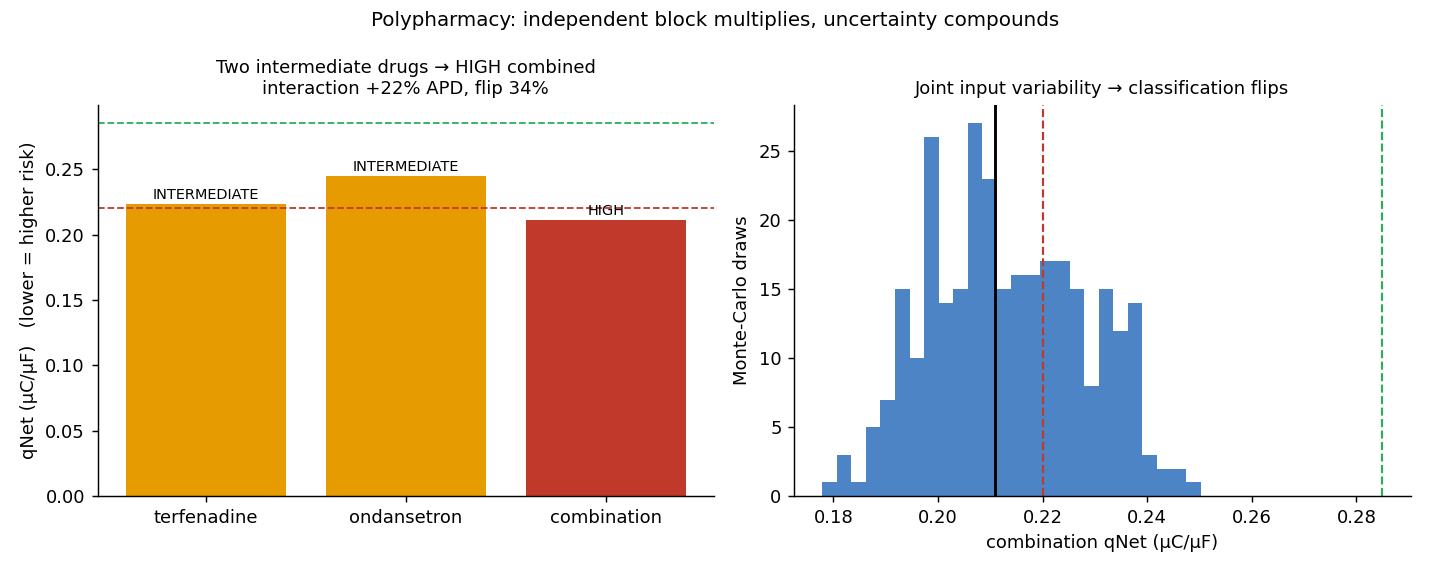
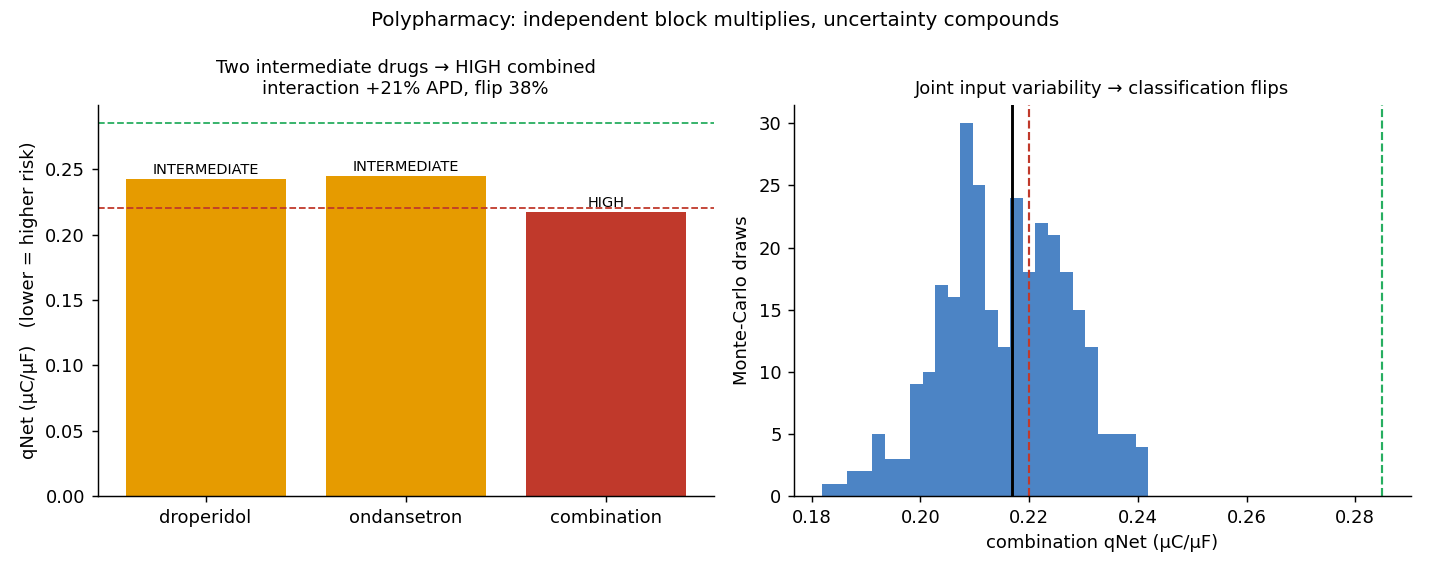
v0.8.1 — reconcile the two channels the v0.8 cross-check flagged (data fix)
The v0.8 machine cross-check flagged cisapride.ical and terfenadine.inal as
diverging >5x from the published CiPA value. Reviewed both against the RAW
Crumb-2016 dose-response (the cited source) and corrected them — the tool found
real errors and a human confirmed them against the primary source (records stay
'unverified'; this is a data fix, not a 'verified' promotion).

- cisapride.ical: raw Crumb data shows <=2.5% calcium block at the 125 nM top dose
  -> IC50 UNIDENTIFIABLE. Corrected 9258 -> 9258075.75 nM (Li-2017 extrapolated
  fit), max_block 62 -> 3; now Tier D w/ the unidentifiable failure mode. The prior
  9258 nM was a dropped-exponent unit error.
- terfenadine.inal: raw data shows ~15% late-Na block at the 800 nM top dose ->
  UNIDENTIFIABLE. Corrected 2000 -> 20056.02 nM, max_block 78 -> 15; now Tier D.
- Committed dataset now has ZERO cross-check divergences; test_crosscheck.py guards
  it stays clean and both channels are Tier-D unidentifiable.

Honest performance impact (reported, not hidden): correcting terfenadine's weaker
(faithful) protective late-Na block made the reduced kernel over-predict it to
'high' — an adjacent (one-category) error. qNet exact accuracy: training 10/12 ->
9/12, all-28 17/28 -> 16/28; within-one-category stays 100% (zero two-category
errors). Updated every perf number in README/CHANGELOG/spec.

Cascade: terfenadine is now 'high' alone, so it no longer illustrates 'two
[…]

diff --git a/tests/test_crosscheck.py b/tests/test_crosscheck.py
@@ -108,17 +108,26 @@ def test_cross_check_never_implies_verified(ds):
     assert "not human `verified`" in summary or "not human 'verified'" in summary
 
 
-def test_known_divergences_are_flagged(ds):
-    """The cross-check's reason to exist: it surfaces transcribed values that
-    diverge from the published reference. Two are currently known."""
+def test_committed_dataset_has_no_divergences(ds):
+    """The committed dataset must stay clean against the published reference: no
+    channel-block record may diverge >5x from its published CiPA value. The two
+    that did on the v0.8 first run (cisapride.ical at ~1000x, terfenadine.inal at
+    ~10x) were reconciled against the raw Crumb-2016 data to Tier-D unidentifiable.
+    This is a forward regression guard — a future transcription slip re-trips it."""
     rep = cross_check(ds)
-    divergent_ids = {c.record_id for c in rep.divergent}
-    # cisapride ICaL is recorded ~1000x below the published value (a unit-scale
-    # discrepancy) and terfenadine INaL ~10x below.
-    assert "channel_block.cisapride.ical" in divergent_ids
-    for c in rep.divergent:
-        assert c.status == STATUS_DIVERGENT
-        assert c.ic50_fold_diff > MINOR_FOLD
+    assert rep.divergent == [], (
+        "records diverge >5x from the published CiPA reference: "
+        + ", ".join(f"{c.record_id} ({c.ic50_fold_diff:.0f}x)" for c in rep.divergent))
+
+
+def test_reconciled_records_are_tier_d_unidentifiable(ds):
+    """The two formerly-divergent channels are now honestly unidentifiable
+    (max block << 60% in the cited source) -> Tier D, like ranolazine.ical."""
+    for rid in ("channel_block.cisapride.ical", "channel_block.terfenadine.inal"):
+        block = ds[rid]
+        assert block.tier == "D"
+        assert not block.assay_context.identifiable
+        assert block.known_failure_modes  # carries the unidentifiable failure mode
 
 
 def test_divergent_sorts_first(ds):

diff --git a/dataset/tools/build_records.py b/dataset/tools/build_records.py
@@ -176,7 +176,12 @@ DRUGS = {
                     sources=[(6.5, "manual", "crumb-2016"),
                              (20.0, "automated", "kramer-2013"),
                              (4.0, "manual", "li-2017")]),
-        "ICaL": dict(ic50=9258.0, hill=0.6, max_block=62, primary="crumb-2016"),
+        # The v0.8 machine cross-check flagged a >5x divergence from the published
+        # Li-2017 value; the raw Crumb-2016 dose-response (the cited source) settles
+        # it: cisapride blocks ICaL <=2.5% at the 125 nM top dose tested, so the IC50
+        # is UNIDENTIFIABLE (max block << 60%). The point estimate is the Li-2017
+        # extrapolated fit, kept for provenance only -> Tier D (cf. ranolazine.ical).
+        "ICaL": dict(ic50=9258075.75, hill=0.43, max_block=3, primary="crumb-2016"),
         "INa":  dict(ic50=15000.0, hill=1.0, max_block=60, primary="crumb-2016"),
     }),
     "terfenadine": dict(category="intermediate", unii="73334008C7", eftpc=9.0, fu=0.03, channels={
@@ -185,7 +190,10 @@ DRUGS = {
                              (56.0, "automated", "kramer-2013"),
                              (20.0, "manual", "li-2017")]),
         "ICaL": dict(ic50=700.0, hill=0.7, max_block=85, primary="crumb-2016"),
-        "INaL": dict(ic50=2000.0, hill=0.6, max_block=78, primary="crumb-2016"),
+        # v0.8 cross-check flag, confirmed against the raw Crumb-2016 data: terfenadine
+        # blocks INaL only ~15% at the 800 nM top dose, so the IC50 is UNIDENTIFIABLE
+        # (max block << 60%). Point estimate is the Li-2017 extrapolated fit -> Tier D.
+        "INaL": dict(ic50=20056.02, hill=0.6, max_block=15, primary="crumb-2016"),
         "INa":  dict(ic50=1303.0, hill=0.9, max_block=80, primary="crumb-2016"),
     }),
     "ondansetron": dict(category="intermediate", unii="4AF302ESOS", eftpc=139.0, fu=0.27, channels={

diff --git a/tests/test_combination.py b/tests/test_combination.py
@@ -18,11 +18,12 @@ def test_combination_more_block_than_either_single(ds):
 
 
 def test_combination_can_escalate_class(ds):
-    """Two intermediate drugs can combine into high risk."""
-    combo = assess_combination(ds, ["terfenadine", "ondansetron"], n_mc=0)
+    """Two intermediate drugs can combine into high risk (here droperidol +
+    ondansetron — two QT-prolonging antiemetics often co-administered)."""
+    pair = ["droperidol", "ondansetron"]
+    combo = assess_combination(ds, pair, n_mc=0)
     assert combo.classification == "high"
-    assert all(assess(ds, d, n_mc=0).classification != "high"
-               for d in ["terfenadine", "ondansetron"])
+    assert all(assess(ds, d, n_mc=0).classification != "high" for d in pair)
 
 
 def test_combination_distribution_and_flip(ds):

diff --git a/dashboard/app.py b/dashboard/app.py
@@ -207,7 +207,7 @@ with tab_combo:
                "drugs can combine into 'high'.")
     cc1, cc2, cc3 = st.columns([3, 1, 1])
     sel = cc1.multiselect("Drugs (pick 2+)", ds.drugs(),
-                          default=["terfenadine", "ondansetron"])
+                          default=["droperidol", "ondansetron"])
     cmetric = cc2.selectbox("Metric", ["qnet", "apd90"], index=0, key="cmetric")
     cmc = cc3.slider("MC draws", 20, 300, 100, step=20, key="cmc")
     if len(sel) < 2:

diff --git a/docs/make_figures.py b/docs/make_figures.py
@@ -177,7 +177,7 @@ def fig_validation_set():
 def fig_combination():
     """Polypharmacy (Phase D): two intermediate drugs combine into high risk.
     qNet AP traces and the qNet bars for each single agent vs the combination."""
-    pair = ["terfenadine", "ondansetron"]
+    pair = ["droperidol", "ondansetron"]
     combo = assess_combination(ds, pair, n_mc=300)
     singles = {d: assess(ds, d, n_mc=0, exposure_nM=combo.exposures_nM[d]) for d in pair}
 

diff --git a/python/harmonia/__init__.py b/python/harmonia/__init__.py
@@ -8,7 +8,7 @@ uncertainty; it never issues a bare "safe/unsafe" verdict. See spec.md §10.
 """
 from __future__ import annotations
 
-__version__ = "0.8.0"
+__version__ = "0.8.1"
 
 from .load import Dataset, load, find_dataset_dir
 from .validate import validate_dataset, ValidationReport

diff --git a/README.md b/README.md
@@ -74,7 +74,7 @@ harmonia priors              # the prior registry (declared, citable, non-predic
 harmonia flip verapamil      # classification stability across AP-model variants
 harmonia sensitivity verapamil                 # which channel's IC50 spread drives the flip
 harmonia sensitivity verapamil --sobol         # variance-based indices WITH interactions (v0.2)
-harmonia combo terfenadine ondansetron         # drug-combination (polypharmacy) assessment
+harmonia combo droperidol ondansetron          # drug-combination (polypharmacy) assessment
 harmonia population sotalol  # population-of-models spread (HYPOTHESIS-TIER, not for prediction)
 harmonia performance         # score qNet vs CiPA expert labels (train/val/all); --metric apd90
 harmonia crosscheck          # v0.8 diff transcribed IC50/Hill vs the published CiPA reference
@@ -126,7 +126,7 @@ res = harmonia.assess(ds, "verapamil", exposure_nM=3200, exposure_kind="total") 
 harmonia.free_from_total(3200, 0.10)          # 320.0 nM free
 
 # Drug combination (polypharmacy): joint variability, the interaction, the flip
-combo = harmonia.assess_combination(ds, ["terfenadine", "ondansetron"], n_mc=200)
+combo = harmonia.assess_combination(ds, ["droperidol", "ondansetron"], n_mc=200)
 combo.classification                          # "high"  (two intermediates -> high together)
 combo.interaction_dapd90_pct                  # extra prolongation beyond the worst single agent
 combo.classification_flip_frequency           # joint-uncertainty flip frequency
@@ -147,7 +147,7 @@ pop.tier                                      # "D"  (always; non-predictive)
 | **Variability is first-class** — multi-source IC50s with computed fold-range / IQR; the reliability gate (max block < 60% ⇒ Tier D, unidentifiable) machine-enforced | ✅ |
 | **Bayesian dose-response UQ** (Phase C, **v0.2**) — the IC50/Hill spread is *inferred* under a declared prior, not transcribed: hierarchical posterior with dataset-learned between-lab pooling, propagated Hill uncertainty, a one-sided **censored** posterior for sub-60%-block channels, a **raw dose-response regime** (fit from concentration-block points), a prior registry with per-channel `prior_sensitivity`, variance-based (Sobol) sensitivity, and a calibrated inference (simulation-based calibration + posterior coverage). Opt-in via `uq="bayes"`; `uq="moments"` (default) reproduces every v0.1 number | ✅ |
 | **Reference kernel** — a SciPy reduced O'Hara-Rudy-lineage ventricular AP (7 currents + Na-Ca exchanger) with Hill block per current; APD90 / qNet / triangulation / **cqInward** / EAD biomarkers | ✅ |
-| **Discriminating qNet** (Phase C) — adding a shape-dependent Na-Ca exchanger (excluded from the qNet sum) makes qNet sensitive; **qNet is now the default metric** (10/12 training, zero two-category errors over all 28 compounds); APD90 selectable | ✅ |
+| **Discriminating qNet** (Phase C) — adding a shape-dependent Na-Ca exchanger (excluded from the qNet sum) makes qNet sensitive; **qNet is now the default metric** (9/12 training, zero two-category errors over all 28 compounds); APD90 selectable | ✅ |
 | **Dynamic hERG binding** (Phase B) — Langmuir kon/koff with **trapping**; reduces to the static Hill block at steady state, captures use-dependent block (`assess(..., herg_dynamic=True)`) | ✅ |
 | **CiPA dynamic-hERG kinetics** (**v0.6**) — the real published Li-2017 IKr-Markov binding parameters (`Kmax`/`Ku`/`halfmax`/`n`/`Vhalf`) for the **12 CiPA dynamic-fit compounds**, sourced from the FDA/CiPA repository as a citation-backed `cipa_binding` field; a faithful binding model reproducing the **trapping phenotype** (`assess(..., herg_dynamic="cipa")`). Data authoritative (shipped `unverified`); model an opt-in Tier-C reduction that touches no default number | ✅ |
 | **Exposure layer** (Phase D) — free ↔ total plasma conversion via protein binding (`fraction_unbound`); assess from a free or total concentration (composable with a Hypnos PK trajectory) | ✅ |
@@ -292,7 +292,7 @@ It is **not** bit-exact to the published ORd CellML, so AP-model records ship at
   genuinely discriminate. ΔAPD90% remains selectable (`metric="apd90"`).
 - **The classifier is a methodology demonstrator, not a qualified classifier.**
   Calibrated on the 12 CiPA training drugs under the default model (qNet
-  thresholds: high < 0.220, low > 0.285), the reduced kernel recovers **10/12**
+  thresholds: high < 0.220, low > 0.285), the reduced kernel recovers **9/12**
   training labels — and across the full 28-compound set it makes **zero
   two-category errors** (it never calls a high-risk drug low, or vice versa):
 
@@ -336,9 +336,9 @@ prints the full confusion matrix. Honest numbers under the default qNet metric:
 
 | Set | Exact accuracy | Within-one-category |
 | --- | --- | --- |
-| Training (12) | 10/12 (83%) | 12/12 (100%) |
+| Training (12) | 9/12 (75%) | 12/12 (100%) |
 | Validation (16) | 7/16 (44%) | 16/16 (100%) |
-| All 28 | 17/28 (61%) | 28/28 (100%) |
+| All 28 | 16/28 (57%) | 28/28 (100%) |
 
 qNet beats the APD90 surrogate (8/12 training, ~82% within-one) on both counts.
 The validation set is honestly harder on exact 3-way accuracy: many validation
@@ -346,7 +346,10 @@ drugs have very low free Cmax, so block at 4× EFTPC is sub-IC50 and *both* metr
 underread them. But qNet never makes a catastrophic (two-category) error on any of
 the 28 compounds — the property that matters most for a safety screen. The durable
 contribution remains the **flip-frequency-under-variability machinery**, correct
-regardless of absolute accuracy.
+regardless of absolute accuracy. (The v0.8 cross-check sharpened these numbers: it
+caught two unidentifiable channels — `terfenadine.inal`, `cisapride.ical` — whose
+erroneous block estimates had been propping up a label; correcting them to Tier D
+honestly cost one training match. A more faithful dataset, a slightly lower score.)
 
 ### Machine cross-check against the published CiPA reference (v0.8)
 
@@ -369,18 +372,23 @@ computed `machine_cross_checked` flag is **deliberately not** `verified`: it
 confirms agreement with a published number, never that a human read the source
 PDF, and it never edits a record. `harmonia info` prints both signals, separately.
 
-**It earned its keep on the first run.** Of 38 records with a published
-reference, 36 agree; two diverge and were surfaced for reconciliation:
-`cisapride.ical` recorded **9,258 nM** vs the published **9,258,075 nM** (identical
-mantissa, off by exactly **1000×** — a dropped-exponent unit error) and
-`terfenadine.inal` **2,000** vs **20,056 nM** (~10×). That is the whole point: a
+**It earned its keep on the first run.** It flagged two records that diverged
+>5× from the published value: `cisapride.ical` recorded **9,258 nM** vs the
+published **9,258,075 nM** (identical mantissa, off by exactly **1000×** — a
+dropped-exponent unit error) and `terfenadine.inal` **2,000** vs **20,056 nM**
+(~10×). Both were reconciled against the **raw Crumb-2016 dose-response** (the
+cited source), which shows ≤2.5% / ~15% block at the highest dose tested — i.e.
+the IC50s are *unidentifiable* — so both channels are now **Tier D**, exactly as
+the reliability gate intends (correcting `terfenadine.inal` honestly cost one
+training-set match; see performance above). The committed dataset now has **zero**
+divergences, and a test guards that it stays that way. That is the whole point: a
 mechanical, non-circular check that catches the unit-scale transcription slips a
 0/104-verified count cannot. See [spec v0.8](docs/specs/v0.8-machine-crosscheck.md).
 
 ```python
 rep = harmonia.cross_check(ds)                # or cross_check(ds, "verapamil")
-rep.n_cross_checked, len(rep.checks)          # 36, 68
-[c.record_id for c in rep.divergent]          # the records to reconcile by hand
+rep.n_cross_checked, len(rep.checks)          # 38, 68
+rep.divergent                                 # []  — the committed dataset is clean
 ```
 
 ### Dynamic hERG binding (Phase B)
@@ -458,8 +466,9 @@ combined call carries its own flip frequency.
 
 ![Drug combination — two intermediates become high](docs/img/combination.png)
 
-`terfenadine + ondansetron` at therapeutic exposures cross into HIGH (qNet 0.21),
-with ~+22% extra APD prolongation beyond the worst single agent and a ~34%
+`droperidol + ondansetron` — two QT-prolonging antiemetics often co-administered,
+each *intermediate* alone — cross into HIGH together (qNet 0.22), with ~+21% extra
+APD prolongation beyond the worst single agent and a ~37%
 classification-flip frequency under joint input variability. The combined safety
 call is only as trustworthy as its least-identifiable input — the single-drug
 principle, extended to the combination.

diff --git a/CHANGELOG.md b/CHANGELOG.md
@@ -6,6 +6,33 @@ follow [Semantic Versioning](https://semver.org/spec/v2.0.0.html).
 
 ## [Unreleased]
 
+## [0.8.1] — 2026-06-23
+
+### Fixed — reconciled the two channels the v0.8 cross-check flagged (data correction)
+The v0.8 machine cross-check flagged two channel-block records as diverging >5× from the
+published CiPA value. Both were reviewed against the **raw Crumb-2016 dose-response** (the
+cited source) and corrected — the cross-check found real errors, and a human confirmed and
+reconciled them against the primary source (records stay `unverified`; this is a data fix,
+not a `verified` promotion).
+
+- **`channel_block.cisapride.ical`** — the raw Crumb-2016 data shows ≤2.5% calcium block at
+  the 125 nM top dose tested, so the IC50 is **unidentifiable**. Corrected to the Li-2017
+  extrapolated fit (9,258,075 nM) with `max_block` 62 → 3; now **Tier D** with the
+  unidentifiable failure mode (like `ranolazine.ical`). The prior 9,258 nM was a
+  dropped-exponent unit error.
+- **`channel_block.terfenadine.inal`** — the raw data shows ~15% late-sodium block at the
+  800 nM top dose, so the IC50 is **unidentifiable**. Corrected 2,000 → 20,056 nM (Li-2017
+  fit), `max_block` 78 → 15; now **Tier D**.
+- **Honest performance impact:** correcting `terfenadine.inal` (less *protective* late-Na
+  block, faithfully represented) pushed the reduced kernel to over-predict terfenadine to
+  `high` — an adjacent (one-category) error. qNet exact accuracy: training 10/12 → **9/12**,
+  all-28 17/28 → **16/28**; within-one-category stays **100%** (still zero two-category
+  errors). A more faithful dataset, a slightly lower score — the trade the project exists to
+  make visible.
+- The committed dataset now has **zero** cross-check divergences;
+  `tests/test_crosscheck.py` guards that it stays clean and that both channels are Tier-D
+  unidentifiable.
+
 ## [0.8.0] — 2026-06-23
 
 ### Added — machine cross-check against the published CiPA reference (spec v0.8)

diff --git a/docs/specs/v0.8-machine-crosscheck.md b/docs/specs/v0.8-machine-crosscheck.md
@@ -121,11 +121,25 @@ Run over all 68 channel-block records: 38 have a published reference, 36 are
 - **`channel_block.terfenadine.inal`** — recorded **2 000 nM**, published
   **20 056 nM**: ~**10×**.
 
-Neither is auto-corrected. Both are surfaced for a human to reconcile against the
+Neither was auto-corrected. Both were surfaced for a human to reconcile against the
 primary source — which is precisely the workflow §9 mandates. The other 32
 training-drug matches (e.g. dofetilide IKr 5.06 vs 4.87 nM, ×1.04; verapamil IKr
 252 vs 288 nM, ×1.14) are independent evidence the bulk of the transcription is
 faithful.
+
+**Update (v0.8.1) — reconciled.** Both flagged channels were reviewed against the
+raw Crumb-2016 dose-response (the cited source), which shows ≤2.5% (cisapride
+ICaL, at the 125 nM top dose) and ~15% (terfenadine INaL, at 800 nM) block — i.e.
+the IC50s are *unidentifiable* (max block << 60%). Per the reliability gate both
+are now **Tier D** with the unidentifiable failure mode (the IC50 point estimate
+is the Li-2017 extrapolated fit, kept for provenance only), exactly as
+`ranolazine.ical` already was. The committed dataset now has **zero** cross-check
+divergences, guarded by a test. Honest cost: correcting `terfenadine.inal`
+(faithfully weaker protective late-Na block) pushed the reduced kernel to
+over-predict terfenadine to `high` (an adjacent error), so qNet exact accuracy
+moved training 10/12 → 9/12 and all-28 17/28 → 16/28, within-one-category
+unchanged at 100%. This is the cross-check working end to end: flag → reconcile to
+source → a more faithful dataset, with the accuracy cost reported, not hidden.
 
 ## 5. The honesty contract (how this stays inside §9)
 